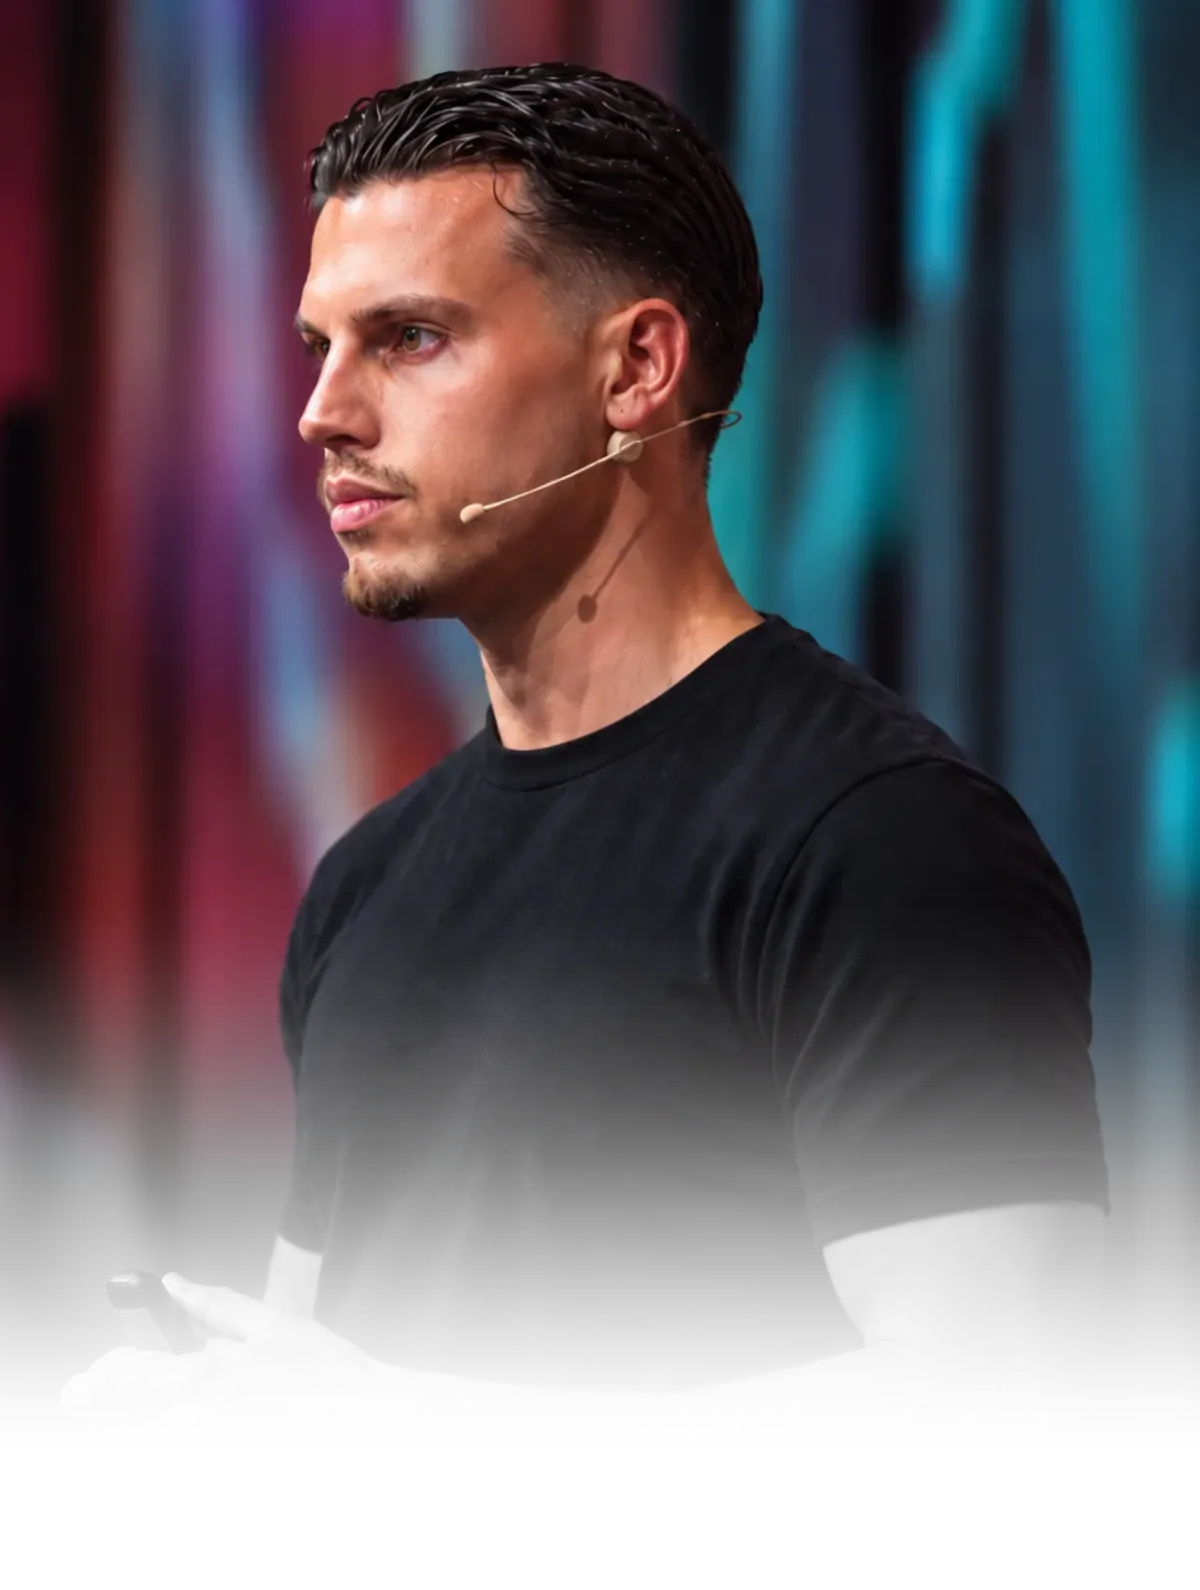
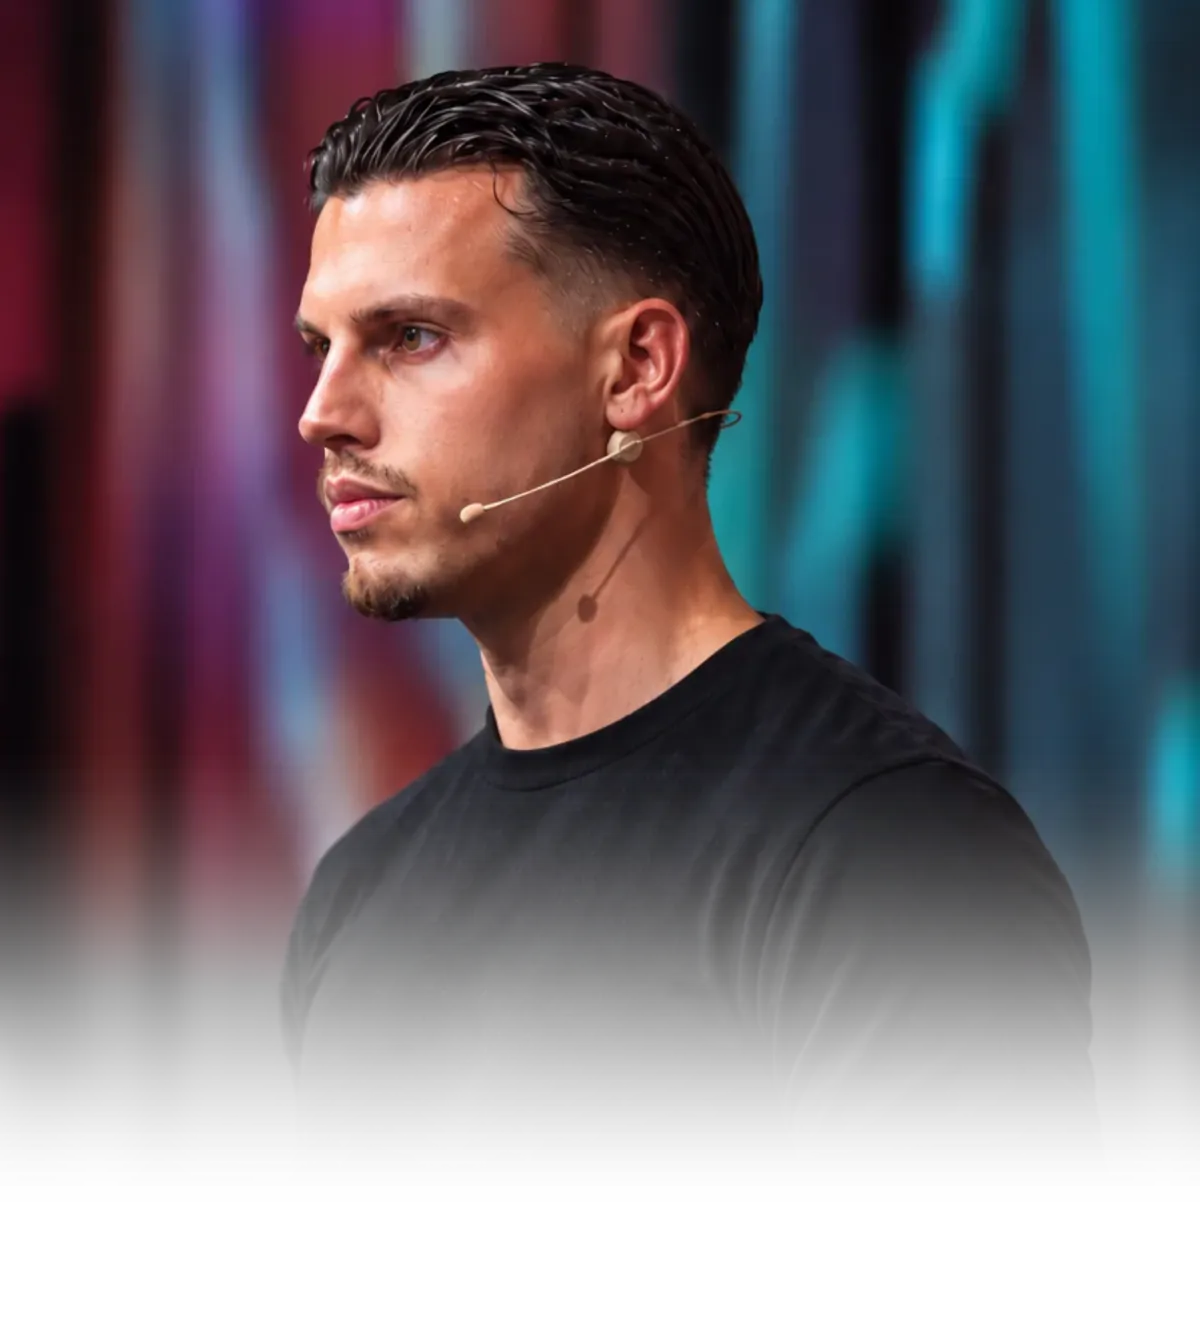
Make the stage photo shorter
The crop now ends at chest height (4:4.4), so the photo takes up less of
the screen and the booking button is visible without scrolling even on
the smallest phones.

diff --git a/styles.css b/styles.css
@@ -77,9 +77,9 @@
 
   /* Profilbild: Größe und Abstand nach oben */
   /* Maße des Bühnenfotos: auf dem Handy randlos über die volle Breite
-     (Seitenverhältnis 4 : 5,3), ab 600 px mittig mit fester Höhe */
+     (Seitenverhältnis 4 : 4,4), ab 600 px mittig mit fester Höhe */
   --hero-w: 100vw;
-  --hero-h: calc(100vw * 5.3 / 4);
+  --hero-h: calc(100vw * 4.4 / 4);
   /* Das Foto beginnt randlos ganz oben */
   --profile-top: 0px;
 }
@@ -250,16 +250,16 @@ body {
   display: block;
   width: 100%;
   height: auto;
-  /* Der Ausschnitt ist schon im Bild gerechnet (4 : 5,3) */
-  aspect-ratio: 4 / 5.3;
+  /* Der Ausschnitt ist schon im Bild gerechnet (4 : 4,4) */
+  aspect-ratio: 4 / 4.4;
   object-fit: cover;
 }
 /* Breitere Bildschirme: begrenzt und mittig, Seiten und Oberkante laufen
    ebenfalls aus — volle Breite würde bis aufs Gesicht beschneiden */
 @media (min-width: 600px) {
   :root {
-    --hero-h: min(65vh, 670px);
-    --hero-w: calc(var(--hero-h) * 4 / 5.3);
+    --hero-h: min(54vh, 540px);
+    --hero-w: calc(var(--hero-h) * 4 / 4.4);
   }
   .hero {
     width: auto;

diff --git a/index.html b/index.html
@@ -64,7 +64,7 @@
         <img class="hero__img"
              srcset="assets/niclas-buehne-800.webp 800w, assets/niclas-buehne-1200.webp 1200w"
              sizes="(min-width: 600px) 512px, 100vw" src="assets/niclas-buehne-800.webp" alt="Niclas van der Straeten auf der Bühne"
-             width="1200" height="1590" fetchpriority="high"
+             width="1200" height="1320" fetchpriority="high"
              onerror="this.hidden = true" />
       </button>
       <h1 class="name">Niclas van&nbsp;der&nbsp;Straeten</h1>
